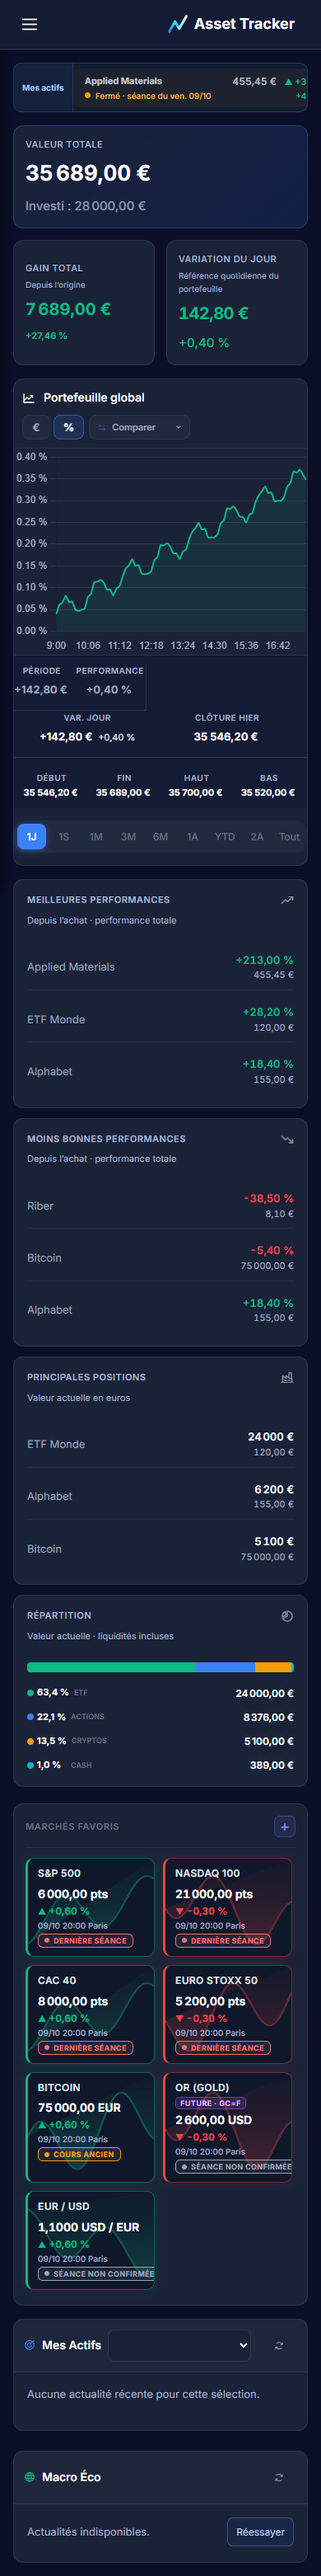
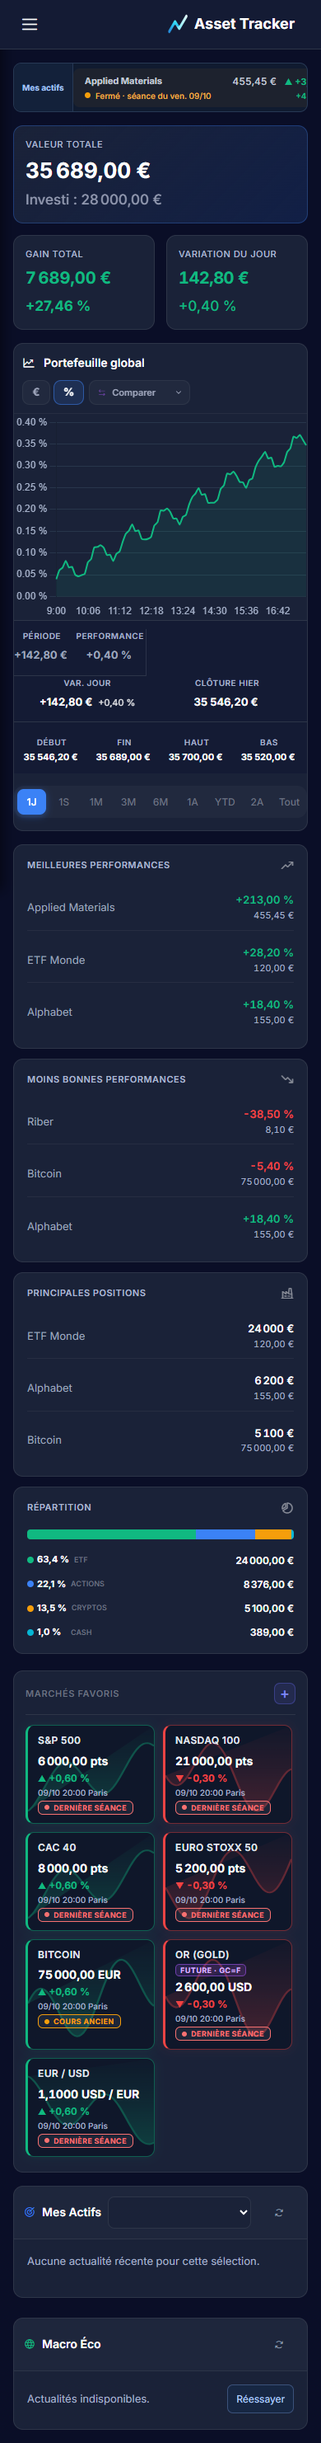
fix claude - audit codex dashboard 1

diff --git a/dashboard.html b/dashboard.html
@@ -17,7 +17,7 @@
     <link rel="stylesheet" href="css/dashboard.css?v=102">
     <link rel="stylesheet" href="css/dashboard-mobile.css?v=6">
     <link rel="stylesheet" href="css/chart-toolbar.css?v=7">
-    <link rel="stylesheet" href="css/dashboard-premium.css?v=2">
+    <link rel="stylesheet" href="css/dashboard-premium.css?v=3">
 
     <link rel="preconnect" href="https://fonts.googleapis.com">
     <link rel="preconnect" href="https://fonts.gstatic.com" crossorigin>
@@ -135,7 +135,6 @@
 
                         <div class="summary-card">
                             <div class="summary-card-label">Gain total</div>
-                            <span class="summary-card-context">Depuis l’origine</span>
                             <div id="total-gain-loss" class="summary-card-value">€0.00</div>
                             <div class="summary-card-meta">
                                 <span id="total-gain-pct" class="meta-large">0.00%</span>
@@ -144,7 +143,6 @@
 
                         <div class="summary-card">
                             <div class="summary-card-label">Variation du jour</div>
-                            <span class="summary-card-context">Référence quotidienne du portefeuille</span>
                             <div id="total-invested" class="summary-card-value">€0.00</div>
                             <div class="summary-card-meta">
                                 <span id="avg-cost-per-share" class="meta-info">0.00%</span>
@@ -262,7 +260,6 @@
                             <div class="kpi-header"><span class="kpi-label">Meilleures performances</span><i
                                     class="ph ph-trend-up kpi-icon"></i>
                             </div>
-                            <p class="kpi-horizon">Depuis l’achat · performance totale</p>
                             <div class="kpi-name-large" id="dashboard-top-gainer-name">-</div>
                             <div class="kpi-meta"><span id="dashboard-top-gainer-pct" class="kpi-change-pct">-</span>
                             </div>
@@ -271,7 +268,6 @@
                             <div class="kpi-header"><span class="kpi-label">Moins bonnes performances</span><i
                                     class="ph ph-trend-down kpi-icon"></i>
                             </div>
-                            <p class="kpi-horizon">Depuis l’achat · performance totale</p>
                             <div class="kpi-name-large" id="dashboard-top-loser-name">-</div>
                             <div class="kpi-meta"><span id="dashboard-top-loser-pct" class="kpi-change-pct">-</span>
                             </div>
@@ -279,14 +275,12 @@
                         <div class="kpi-card">
                             <div class="kpi-header"><span class="kpi-label">Principales positions</span><i
                                     class="ph ph-factory kpi-icon"></i></div>
-                            <p class="kpi-horizon">Valeur actuelle en euros</p>
                             <div class="kpi-name-large" id="dashboard-top-sector">-</div>
                         </div>
                         <div class="kpi-card">
                             <div class="kpi-header"><span class="kpi-label">Répartition</span><i
                                     class="ph ph-chart-pie-slice kpi-icon"></i>
                             </div>
-                            <p class="kpi-horizon">Valeur actuelle · liquidités incluses</p>
                             <div id="dashboard-allocation-container"></div>
                         </div>
                     </div>

diff --git a/css/dashboard-premium.css b/css/dashboard-premium.css
@@ -4,10 +4,12 @@
 .dashboard-premium .dashboard-top-section { grid-template-columns: minmax(0, 1fr) 280px; gap: 20px; align-items: stretch; }
 .dashboard-premium .dashboard-left-column { min-width: 0; overflow: visible; gap: 20px; }
 .dashboard-premium .dashboard-hero-row { gap: 14px; }
-.dashboard-premium .summary-card { padding: 20px; min-width: 0; }
+.dashboard-premium .summary-card { padding: 18px 22px; min-width: 0; display: flex; flex-direction: column; justify-content: center; }
 .dashboard-premium .summary-card-label { color: #acb8d0; font-size: 11px; }
-.dashboard-premium .summary-card-value { font-size: clamp(22px, 2.1vw, 32px); font-variant-numeric: tabular-nums; white-space: nowrap; }
-.summary-card-context { display: block; font-size: 11px; color: var(--dashboard-muted); margin: -4px 0 12px; }
+/* Sized from the card's own width so the amount always fits on one line. */
+.dashboard-premium .dashboard-hero-row .summary-card { container-type: inline-size; }
+.dashboard-premium .summary-card-value { font-size: clamp(22px, 13cqi, 44px); line-height: 1.1; margin: 4px 0 10px; font-variant-numeric: tabular-nums; white-space: nowrap; }
+.dashboard-premium .summary-card-meta .meta-large, .dashboard-premium .summary-card-meta .meta-info { font-size: 17px !important; }
 .dashboard-premium .summary-card-primary { background: linear-gradient(130deg, #1a2c4b, #15203a); border-color: #2d4875; }
 .dashboard-premium .dashboard-chart-section { min-width: 0; overflow: hidden; }
 .dashboard-premium .chart-wrapper.tall { flex: none; height: 340px; min-height: 340px; }
@@ -20,7 +22,6 @@
 .dashboard-premium .kpi-card { min-width: 0; padding: 18px; }
 .dashboard-premium .kpi-header { margin-bottom: 7px; }
 .dashboard-premium .kpi-label { color: #acb8d0; font-size: 11px; }
-.kpi-horizon { font-size: 11px; color: var(--dashboard-muted); margin: 0 0 12px; }
 .dashboard-premium .kpi-list-host { margin: 0; font-size: 13px; font-weight: 400; }
 .dashboard-premium .kpi-row-name { font-size: 12px; max-width: none; }
 .dashboard-premium .kpi-row-left { min-width: 0; }
@@ -128,7 +129,6 @@
     .dashboard-premium .summary-card:nth-child(2) { grid-column: 1; grid-row: 2; }
     .dashboard-premium .summary-card:nth-child(3) { grid-column: 2; grid-row: 2; }
     .dashboard-premium #invested { white-space: nowrap; }
-    .summary-card-context { font-size: 10px; margin: -2px 0 6px; }
     .dashboard-premium .summary-card-label { font-size: 11px !important; }
     .dashboard-premium .dashboard-left-column { gap: 16px; }
     .dashboard-premium .chart-wrapper.tall { height: 285px; min-height: 285px; }
@@ -137,7 +137,7 @@
     .dashboard-premium .dashboard-kpi-grid-v2 { grid-template-columns: 1fr !important; gap: 12px !important; }
     .dashboard-premium .kpi-card { padding: 16px !important; }
     .dashboard-premium .feed-card { height: auto !important; }
-    .dashboard-premium .kpi-label, .dashboard-premium .kpi-horizon { font-size: 11px !important; }
+    .dashboard-premium .kpi-label { font-size: 11px !important; }
     .dashboard-premium .kpi-row-name { font-size: 13px !important; max-width: none !important; }
     .dashboard-premium .kpi-row-right { font-size: 13px !important; }
     .dashboard-premium .kpi-row-right .kpi-sub-value { font-size: 11px !important; }

diff --git a/tests/dashboardPremium.test.js b/tests/dashboardPremium.test.js
@@ -51,6 +51,16 @@ describe('Dashboard quote contract', () => {
         expect(presentDashboardQuote('^NDX', quote, sunday)).toMatchObject({ status: 'Dernière séance', session: 'CLOSED' });
         expect(presentDashboardQuote('^NDX', quote, sunday).time).toContain('09/10');
     });
+    it('treats gold futures as closed over the weekend despite a Sunday-long provider period', () => {
+        const sunday = Date.parse('2026-10-11T19:35:00Z');
+        const quote = normalizeDashboardQuote('GC=F', chart({
+            regularMarketTime: sec('2026-10-09T20:59:59Z'), instrumentType: 'FUTURE',
+            currentTradingPeriod: { regular: { start: sec('2026-10-11T04:00:00Z'), end: sec('2026-10-12T03:59:00Z') } }
+        }), sunday);
+        expect(presentDashboardQuote('GC=F', quote, sunday)).toMatchObject({ session: 'CLOSED', status: 'Dernière séance' });
+        // Globex reopens Sunday 18:00 New York time.
+        expect(quoteSession('GC=F', quote, Date.parse('2026-10-11T22:30:00Z'))).toBe('OPEN');
+    });
     it('never invents a zero variation or a live quote when reference/time are absent', () => {
         const data = chart({ regularMarketTime: undefined, chartPreviousClose: 110 });
         data.timestamp = [];

diff --git a/src/dashboardMarketData.js b/src/dashboardMarketData.js
@@ -29,8 +29,21 @@ export function instrumentUnit(symbol, currency) {
     return currency || 'devise inconnue';
 }
 
+// Futures (CME Globex) and FX trade around the clock on weekdays but stop
+// from Friday 17:00 to Sunday 18:00 New York time. Yahoo nonetheless reports
+// a "regular" period covering the whole Sunday for GC=F, so this break is
+// checked before trusting the provider session.
+function inWeeklyFuturesBreak(now) {
+    const parts = Object.fromEntries(new Intl.DateTimeFormat('en-US', {
+        timeZone: 'America/New_York', weekday: 'short', hour: '2-digit', hourCycle: 'h23'
+    }).formatToParts(now).map(p => [p.type, p.value]));
+    const hour = Number(parts.hour);
+    return parts.weekday === 'Sat' || (parts.weekday === 'Fri' && hour >= 17) || (parts.weekday === 'Sun' && hour < 18);
+}
+
 export function quoteSession(symbol, quote, now = Date.now()) {
     if (/^[A-Z0-9]+-[A-Z]{3}$/.test(symbol)) return 'CONTINUOUS';
+    if ((symbol.endsWith('=F') || symbol.endsWith('=X')) && inWeeklyFuturesBreak(now)) return 'CLOSED';
     const session = quote?.regularSession;
     const timezone = quote?.exchangeTimezone;
     if (session && now >= session.startMs && now < session.endMs) return 'OPEN';

diff --git a/src/dashboardApp.js b/src/dashboardApp.js
@@ -1088,7 +1088,7 @@ export class DashboardApp {
             const view = presentDashboardQuote(row.targetTicker, row.quote);
             let entry = this._sparkCache.get(row.targetTicker);
             if (!entry || Date.now() - entry.at > SPARKLINE_TTL_MS) {
-                const data = await this.chartKPIManager.fetchIndexData(row.targetTicker, '1D', view.session !== 'OPEN').catch(() => null);
+                const data = await this.chartKPIManager.fetchIndexData(row.targetTicker, '1D', view.session !== 'OPEN' || view.status === 'Cours ancien').catch(() => null);
                 entry = { at: Date.now(), data };
                 this._sparkCache.set(row.targetTicker, entry);
             }
